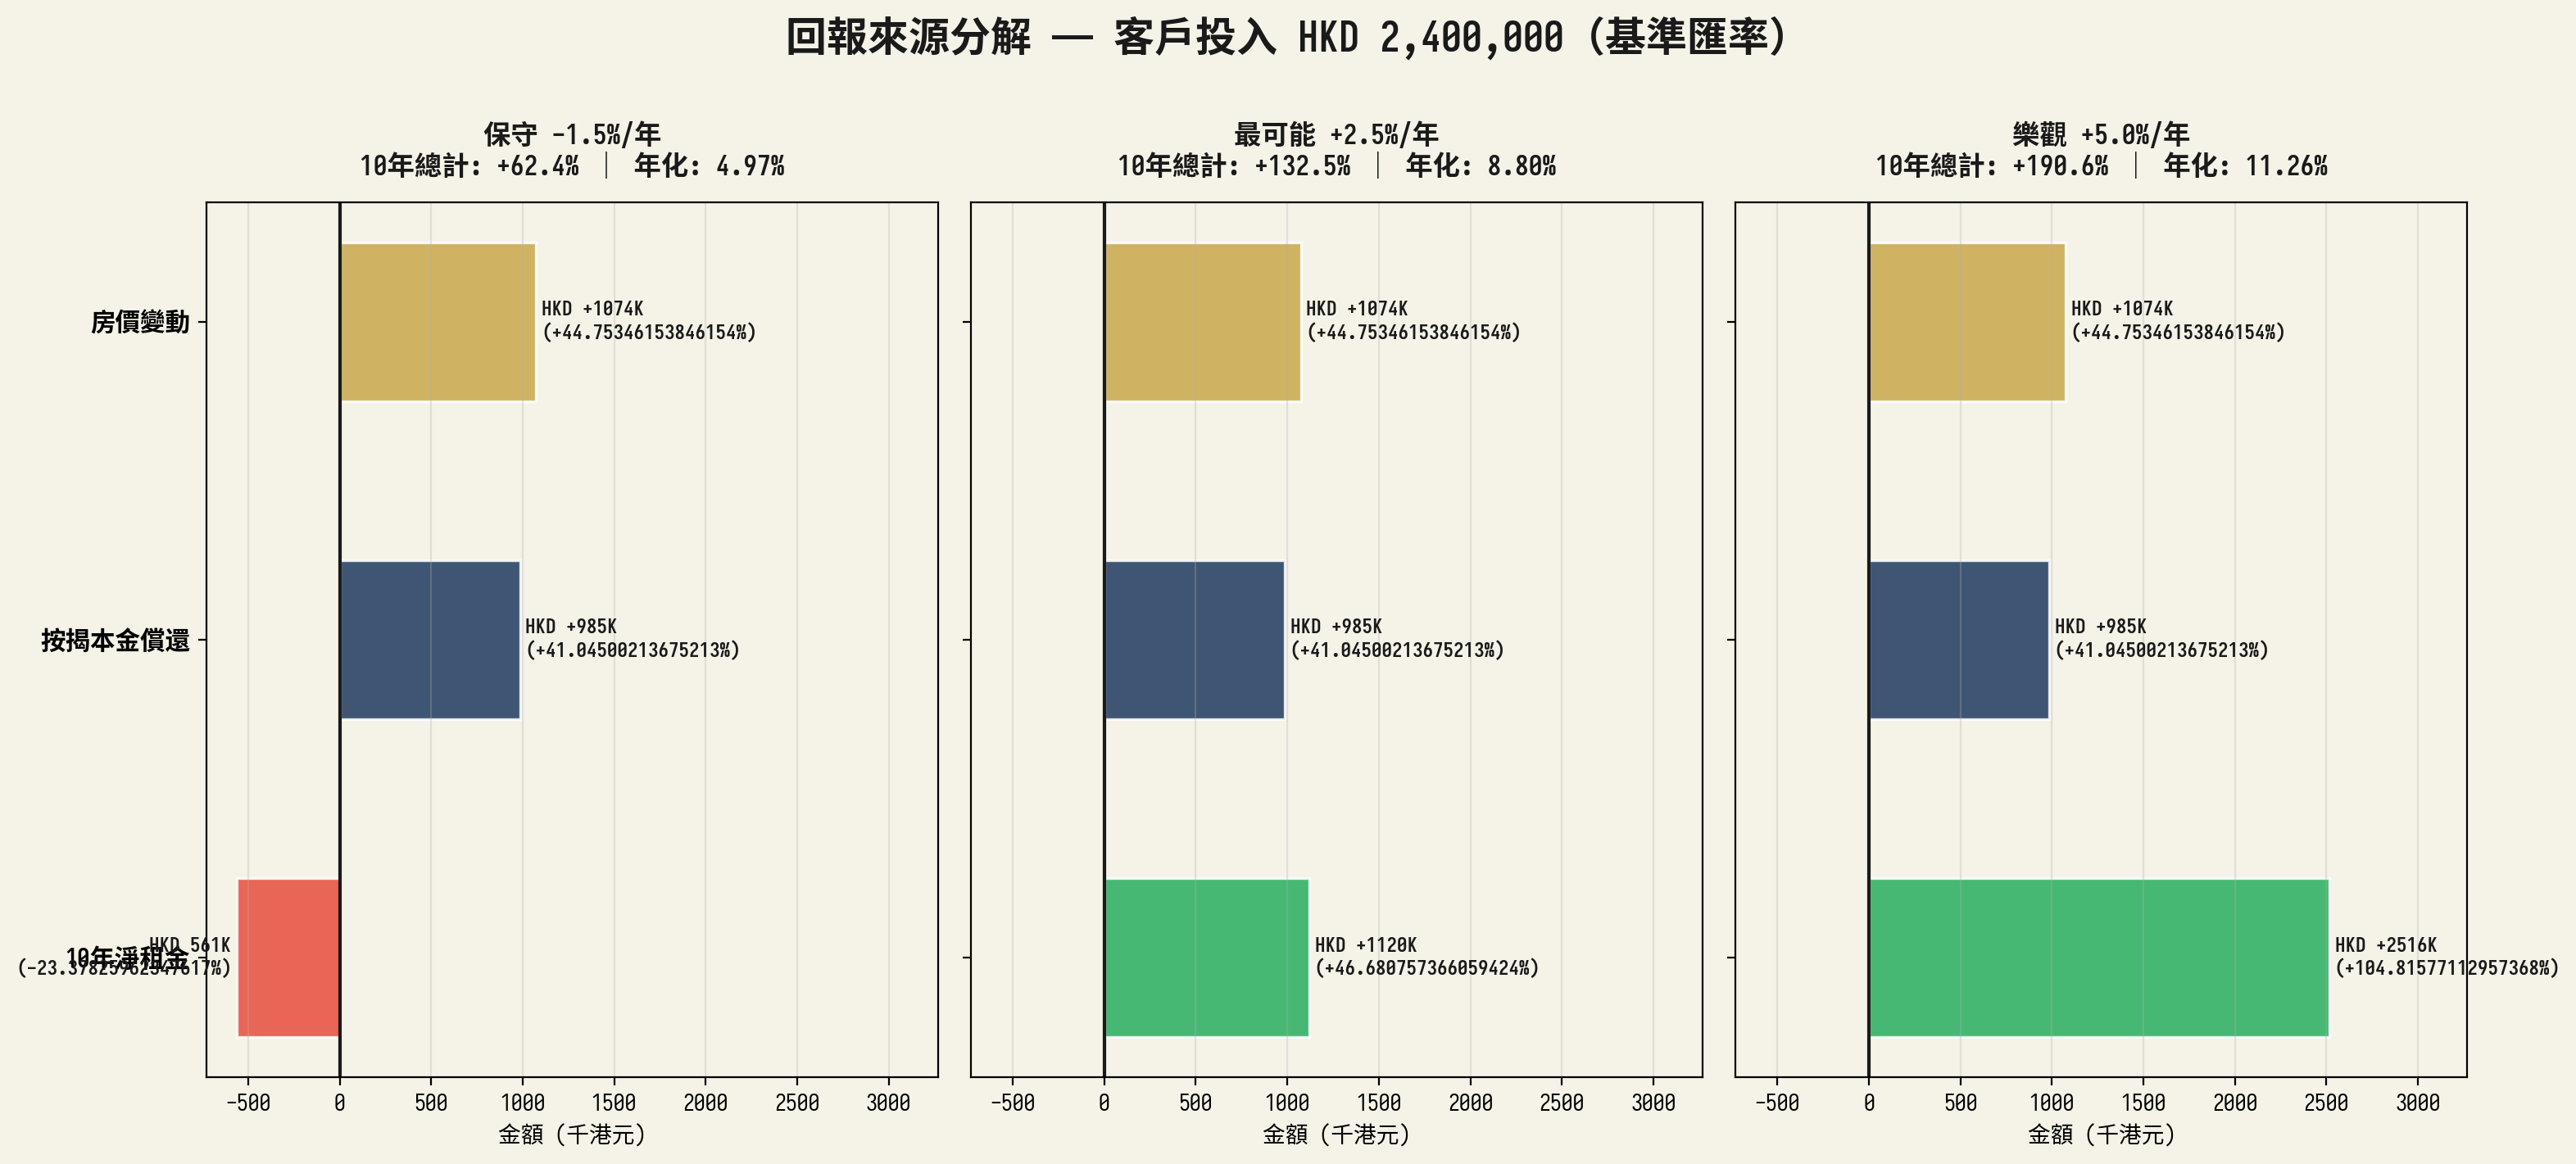
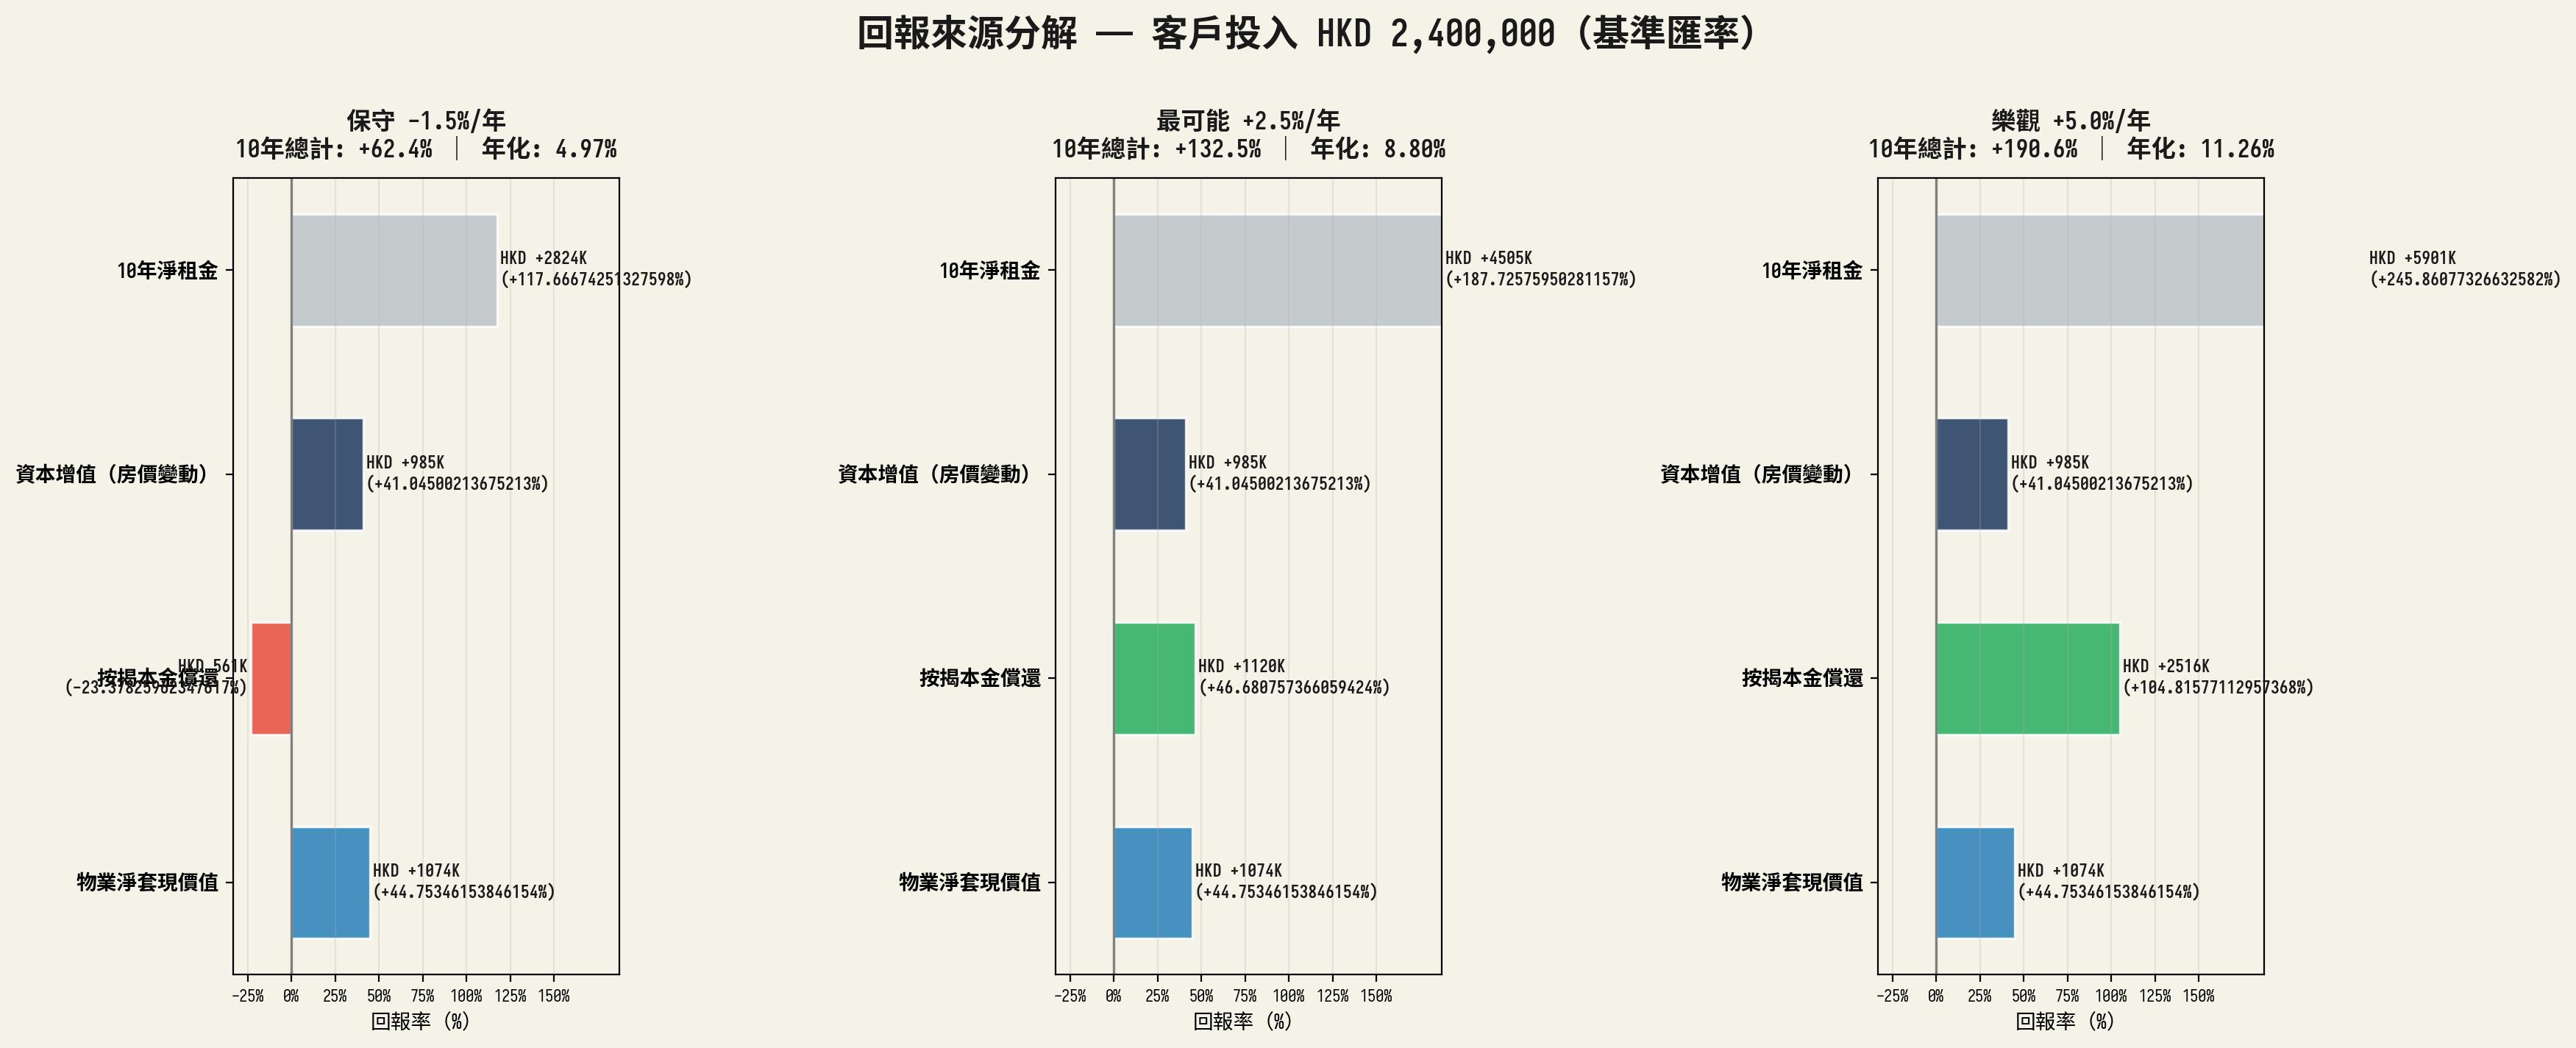
54612030-c6b2-41a0-8f15-183b53734c59

diff --git a/download/gen_return_decomp.py b/download/gen_return_decomp.py
@@ -1,7 +1,7 @@
 # -*- coding: utf-8 -*-
 """
-PZC Group — Return Decomposition Horizontal Bar Chart (10-Year)
-Matching the reference image style: 3 panels, horizontal stacked bars
+PZC Group — Return Decomposition (10-Year)
+4 separate horizontal bars per panel, matching reference layout exactly
 """
 import matplotlib
 matplotlib.use('Agg')
@@ -17,6 +17,7 @@ plt.rcParams['axes.unicode_minus'] = False
 
 OUT = '/home/z/my-project/download/ppt_charts'
 BG = '#F5F2E8'
+DARK = '#1A1A1A'
 
 # ── Parameters ──
 invested_hkd = 2_400_000
@@ -28,105 +29,118 @@ balance_at_exit = 11_990_939
 principal_paid_10y = 19_209_061
 loan_jpy = 31_200_000
 
-# ── 3 Scenarios (research-based property forecasts) ──
+# ── 3 Scenarios ──
 scenarios = [
     {'label': '保守 -1.5%/年', 'prop_ann': -0.015},
     {'label': '最可能 +2.5%/年', 'prop_ann': 0.025},
     {'label': '樂觀 +5.0%/年',  'prop_ann': 0.050},
 ]
 
-# Calculate components for each scenario
 for s in scenarios:
     prop_10y = jpy_prop * (1 + s['prop_ann'])**hold
     
-    # Component 1: 10-year net rent in HKD
-    rent_hkd = (net_rent_jpy / fx_base) * hold
+    # Component 1: Net exit value (property - mortgage balance) in HKD
+    net_exit_hkd = (prop_10y - balance_at_exit) / fx_base
     
-    # Component 2: Mortgage principal paid (equity build-up) in HKD
+    # Component 2: Principal paid (equity build) in HKD
     equity_hkd = principal_paid_10y / fx_base
     
-    # Component 3: Property price change in HKD
-    price_change_jpy = prop_10y - jpy_prop
-    price_change_hkd = price_change_jpy / fx_base
+    # Component 3: Capital gain/loss (price change) in HKD
+    price_change_hkd = (prop_10y - jpy_prop) / fx_base
     
-    # Total value at exit = net rent + (property - remaining mortgage) in HKD
-    net_exit_hkd = (prop_10y - balance_at_exit) / fx_base
+    # Component 4: 10-year net rent in HKD
+    rent_hkd = (net_rent_jpy / fx_base) * hold
+    
+    # Total
     total_hkd = rent_hkd + net_exit_hkd
-    
-    # ROI & annualized
     roi = (total_hkd - invested_hkd) / invested_hkd * 100
     ann = ((total_hkd / invested_hkd)**(1/hold) - 1) * 100
     
-    s['rent_hkd'] = rent_hkd
+    s['net_exit_hkd'] = net_exit_hkd
     s['equity_hkd'] = equity_hkd
     s['price_change_hkd'] = price_change_hkd
+    s['rent_hkd'] = rent_hkd
     s['total_hkd'] = total_hkd
     s['roi'] = roi
     s['ann'] = ann
-    s['prop_10y_jpy'] = prop_10y
 
-# ── Colors ──
-GREY_BAR  = '#BDC3C7'
-BLUE_BAR  = '#1E3A5F'
-GOLD_BAR  = '#C9A84C'
-GREEN_BAR = '#27AE60'
-RED_BAR   = '#E74C3C'
-DARK      = '#1A1A1A'
+# ── Colors (matching reference) ──
+GREY_BAR   = '#BDC3C7'   # 物業淨套現
+BLUE_BAR   = '#1E3A5F'   # 按揭本金償還
+GOLD_BAR   = '#C9A84C'   # 淨租金
+GREEN_BAR  = '#27AE60'   # 資本增值 (positive)
+RED_BAR    = '#E74C3C'   # 資本增值 (negative)
+ZERO_BAR   = '#95A5A6'   # 資本增值 (zero)
 
 # ── Chart ──
-fig, axes = plt.subplots(1, 3, figsize=(16, 7), sharey=True)
+fig, axes = plt.subplots(1, 3, figsize=(18, 7))
 fig.patch.set_facecolor(BG)
 fig.suptitle('回報來源分解 — 客戶投入 HKD 2,400,000（基準匯率）',
              fontsize=18, fontweight='bold', color=DARK, y=1.01)
 
-categories = ['10年淨租金', '按揭本金償還', '房價變動']
+categories = [
+    '物業淨套現價值',
+    '按揭本金償還',
+    '資本增值（房價變動）',
+    '10年淨租金',
+]
 
 for idx, (ax, s) in enumerate(zip(axes, scenarios)):
     ax.set_facecolor(BG)
     
-    vals = [s['rent_hkd']/1000, s['equity_hkd']/1000, s['price_change_hkd']/1000]
-    pcts = [v*1000/invested_hkd*100 for v in vals]
+    vals_k = [s['net_exit_hkd']/1000, s['equity_hkd']/1000,
+              s['price_change_hkd']/1000, s['rent_hkd']/1000]
+    pcts = [v*1000/invested_hkd*100 for v in vals_k]
     
-    # Colors: rent=gold, equity=blue, price=green/red
-    if vals[2] >= 0:
-        colors = [GOLD_BAR, BLUE_BAR, GREEN_BAR]
+    colors = [GREY_BAR, BLUE_BAR, GOLD_BAR, '#2980B9']
+    # Capital gain color
+    if s['price_change_hkd'] < -1000:
+        colors[2] = RED_BAR
+    elif s['price_change_hkd'] > 1000:
+        colors[2] = GREEN_BAR
     else:
-        colors = [GOLD_BAR, BLUE_BAR, RED_BAR]
+        colors[2] = ZERO_BAR
     
-    y_pos = [2, 1, 0]
-    labels_detail = []
+    y_pos = [3, 2, 1, 0]
     
-    for i, (cat, val, pct, c, y) in enumerate(zip(categories, vals, pcts, colors, y_pos)):
-        sign = '+' if val >= 0 else ''
-        ax.barh(y, val, height=0.5, color=c, alpha=0.85, edgecolor='white', linewidth=1.2)
+    for i, (cat, val, pct, c, y) in enumerate(zip(categories, vals_k, pcts, colors, y_pos)):
+        ax.barh(y, val, height=0.55, color=c, alpha=0.85, edgecolor='white', linewidth=1.2)
         
-        # Label: HKD amount + percentage
-        if abs(val) > 50:
-            txt_x = val + 30 if val >= 0 else val - 30
-            ha = 'left' if val >= 0 else 'right'
-            ax.text(txt_x, y, 'HKD {}{:.0f}K\n({}{}%)'.format(sign, abs(val), sign, pct),
-                    ha=ha, va='center', fontsize=9, fontweight='bold', color=DARK)
+        sign = '+' if val >= 0 else ''
+        # Text label at end of bar
+        if val >= 0:
+            txt_x = val + 40
+            ha = 'left'
+        else:
+            txt_x = val - 40
+            ha = 'right'
+        
+        ax.text(txt_x, y,
+                'HKD {}{:.0f}K\n({}{}%)'.format(sign, abs(val), sign, pct),
+                ha=ha, va='center', fontsize=8.5, fontweight='bold', color=DARK)
     
-    # Invested capital reference line
-    ax.axvline(x=0, color=DARK, linewidth=1.5)
+    # Zero line
+    ax.axvline(x=0, color=DARK, linewidth=1.2, alpha=0.5)
     
     # Scenario title
     subtitle = '10年總計: +{:.1f}% ｜ 年化: {:.2f}%'.format(s['roi'], s['ann'])
     ax.set_title('{}\n{}'.format(s['label'], subtitle),
-                 fontsize=12, fontweight='bold', color=DARK, pad=12)
+                 fontsize=12, fontweight='bold', color=DARK, pad=10)
     
-    ax.set_yticks([0, 1, 2])
-    ax.set_yticklabels(categories, fontsize=11, fontweight='bold')
-    ax.set_xlabel('金額 (千港元)', fontsize=10)
-    ax.grid(axis='x', alpha=0.3)
+    ax.set_yticks([0, 1, 2, 3])
+    ax.set_yticklabels(categories, fontsize=10, fontweight='bold')
+    ax.set_xlabel('回報率（%）', fontsize=10)
+    ax.grid(axis='x', alpha=0.25)
     
-    # Set symmetric x range
-    all_vals = [s2['rent_hkd']/1000 for s2 in scenarios] + \
-               [s2['equity_hkd']/1000 for s2 in scenarios] + \
-               [s2['price_change_hkd']/1000 for s2 in scenarios]
-    xmin = min(all_vals) * 1.3
-    xmax = max(all_vals) * 1.3
-    ax.set_xlim(xmin, xmax)
+    # Consistent x range across all 3
+    ax.set_xlim(-800, 4500)
+    
+    # Format x-axis as percentage of invested
+    # x values are in HKD thousands, invested = 2400K
+    # So x=2400 means 100% return
+    ticks = np.arange(-600, 4200, 600)
+    ax.set_xticks(ticks)
+    ax.set_xticklabels(['{}%'.format(int(t/2400*100)) for t in ticks], fontsize=8)
 
 plt.tight_layout()
 plt.savefig('{}/return_decomposition.png'.format(OUT), dpi=200, bbox_inches='tight', facecolor=BG)
@@ -134,5 +148,9 @@ plt.close()
 
 print("OK return_decomposition.png")
 for s in scenarios:
-    print("{}: 總回報 HKD {:,.0f}, 年化 {:.2f}%, ROI +{:.1f}%".format(
-        s['label'], s['total_hkd'], s['ann'], s['roi']))
+    print("\n{} (ROI +{:.1f}%, 年化 {:.2f}%)".format(s['label'], s['roi'], s['ann']))
+    print("  物業淨套現: HKD {:,.0f}K ({:.1f}%)".format(s['net_exit_hkd']/1000, s['net_exit_hkd']/invested_hkd*100))
+    print("  按揭本金:   HKD {:,.0f}K ({:.1f}%)".format(s['equity_hkd']/1000, s['equity_hkd']/invested_hkd*100))
+    print("  資本增值:   HKD {:,.0f}K ({:+.1f}%)".format(s['price_change_hkd']/1000, s['price_change_hkd']/invested_hkd*100))
+    print("  淨租金:     HKD {:,.0f}K ({:.1f}%)".format(s['rent_hkd']/1000, s['rent_hkd']/invested_hkd*100))
+    print("  總計:       HKD {:,.0f}K".format(s['total_hkd']/1000))